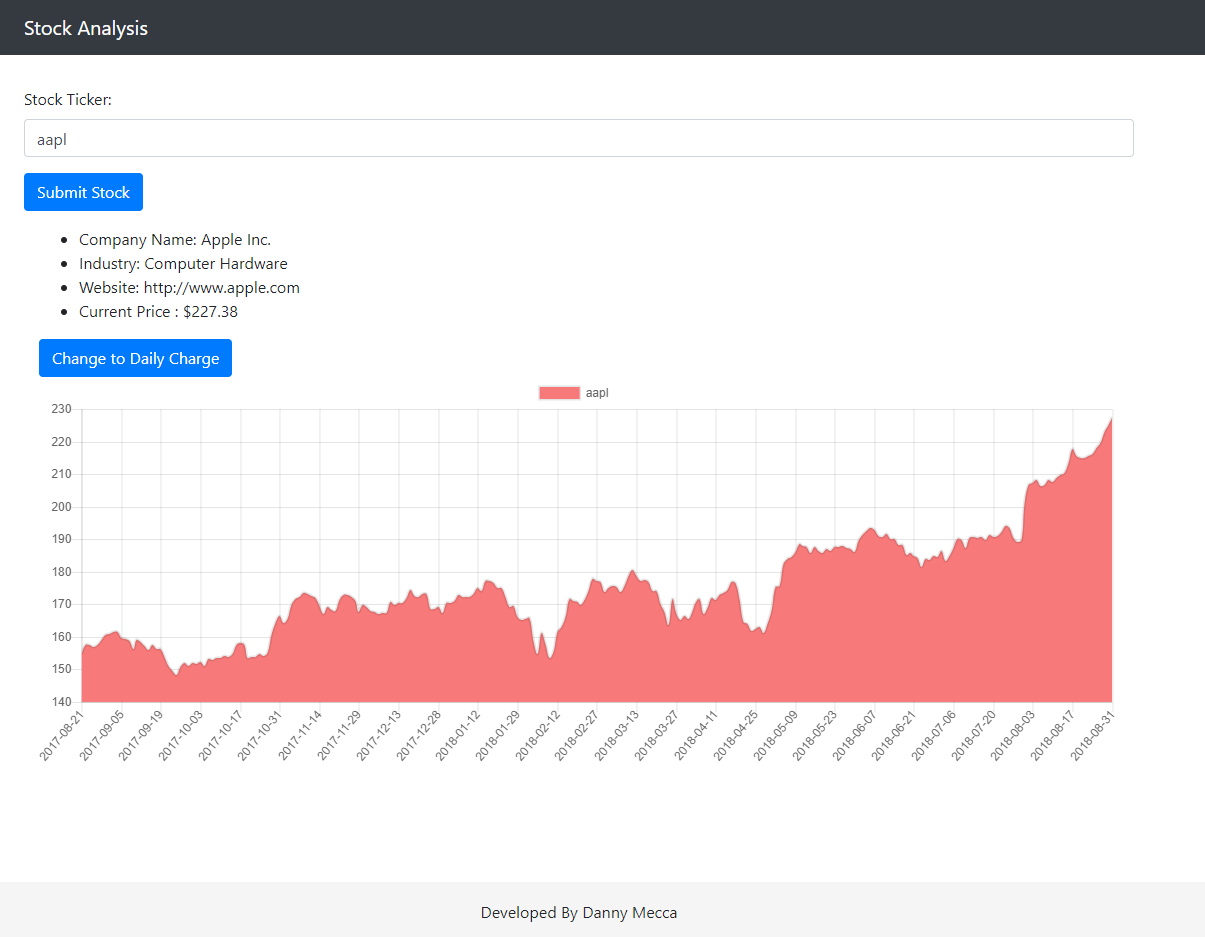
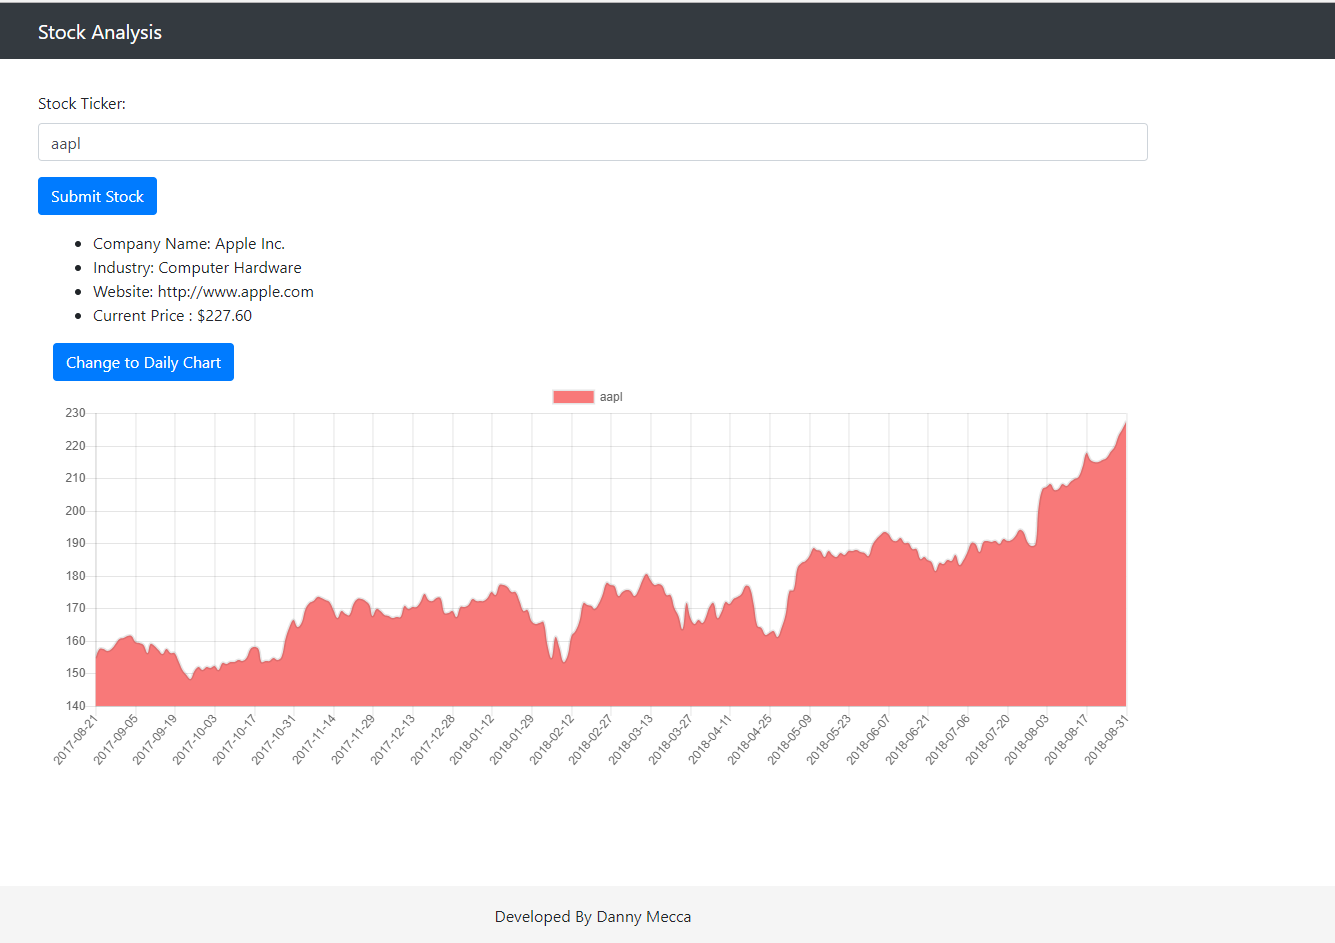
Fixed spelling issue + data not loading.
Updated so if request first is invalid that user can still submit more requests.

diff --git a/import-scripts/vue-app.js b/import-scripts/vue-app.js
@@ -20,8 +20,6 @@ Vue.component('line-chart', {
   }, 
   watch: {
     chartdata: function() {
-      //this.destroy();
-      //this.renderChart(this.data, this.options);
       this.renderLineChart();
     }
   }
@@ -61,6 +59,7 @@ const vm = new Vue({
     submitStock: function() {
       var self = this;
       self.apiRequestComplete = false;
+      console.log('test '); 
       axios.get(this.apiEndPoint + '/stock/' + this.stock + '/company')
         .then(response => {
           if (self.stocksSearched.indexOf(self.stock) == -1) {
@@ -68,6 +67,11 @@ const vm = new Vue({
           }
           self.companyInfo = response.data;
           self.error = false;
+
+          if (!self.error) {
+            self.getStockCurrentPrice();
+            self.getStockYearlyChart('1y');
+          }
         })
         .catch(function(error) {
           self.notFoundStock = self.stock;
@@ -75,10 +79,7 @@ const vm = new Vue({
           console.log(self.notFoundStock);
         });
       // if no error then stock is found run rest of api requests 
-      if (!self.error) {
-        self.getStockCurrentPrice();
-        self.getStockYearlyChart('1y');
-      }
+      
 
     },
     getStockCurrentPrice: function() {
@@ -123,6 +124,7 @@ const vm = new Vue({
           self.stockYearlyChartDates = data2;
           console.log(self.stockYearlyChart); 
           self.apiRequestComplete = true;
+          self.error = false;
         })
         .catch(function(error) {
           self.notFoundStock = self.stock;
